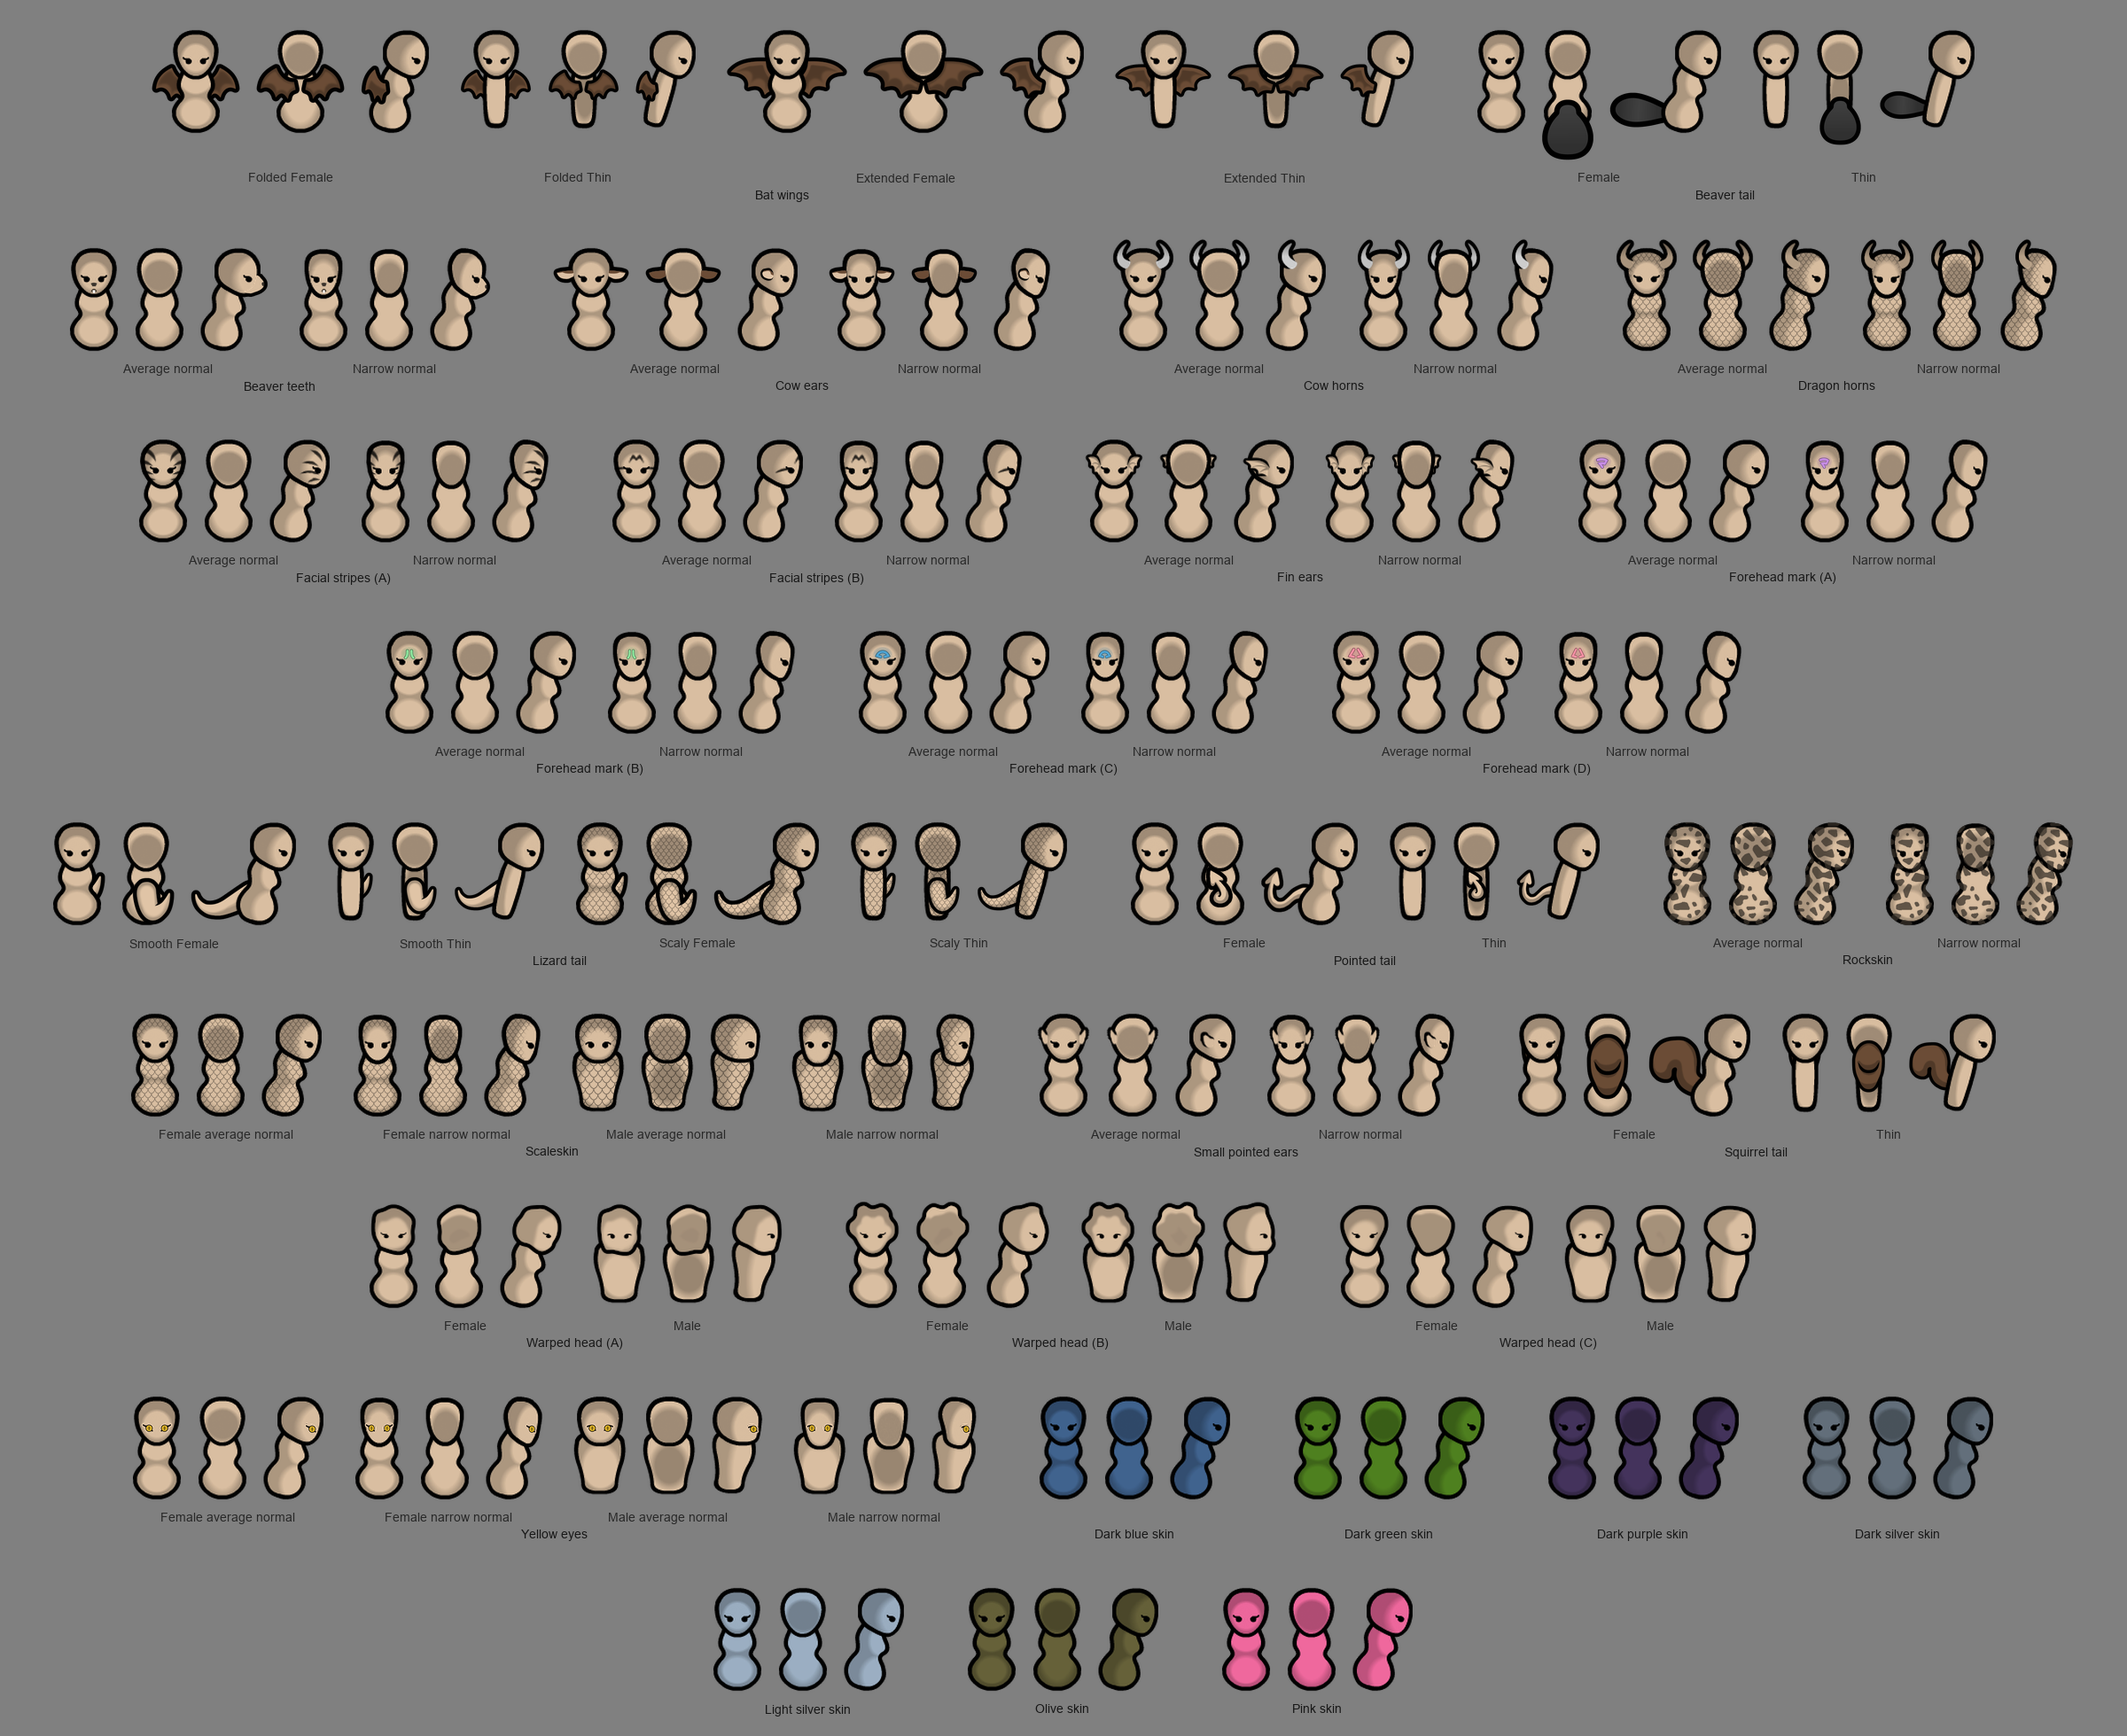
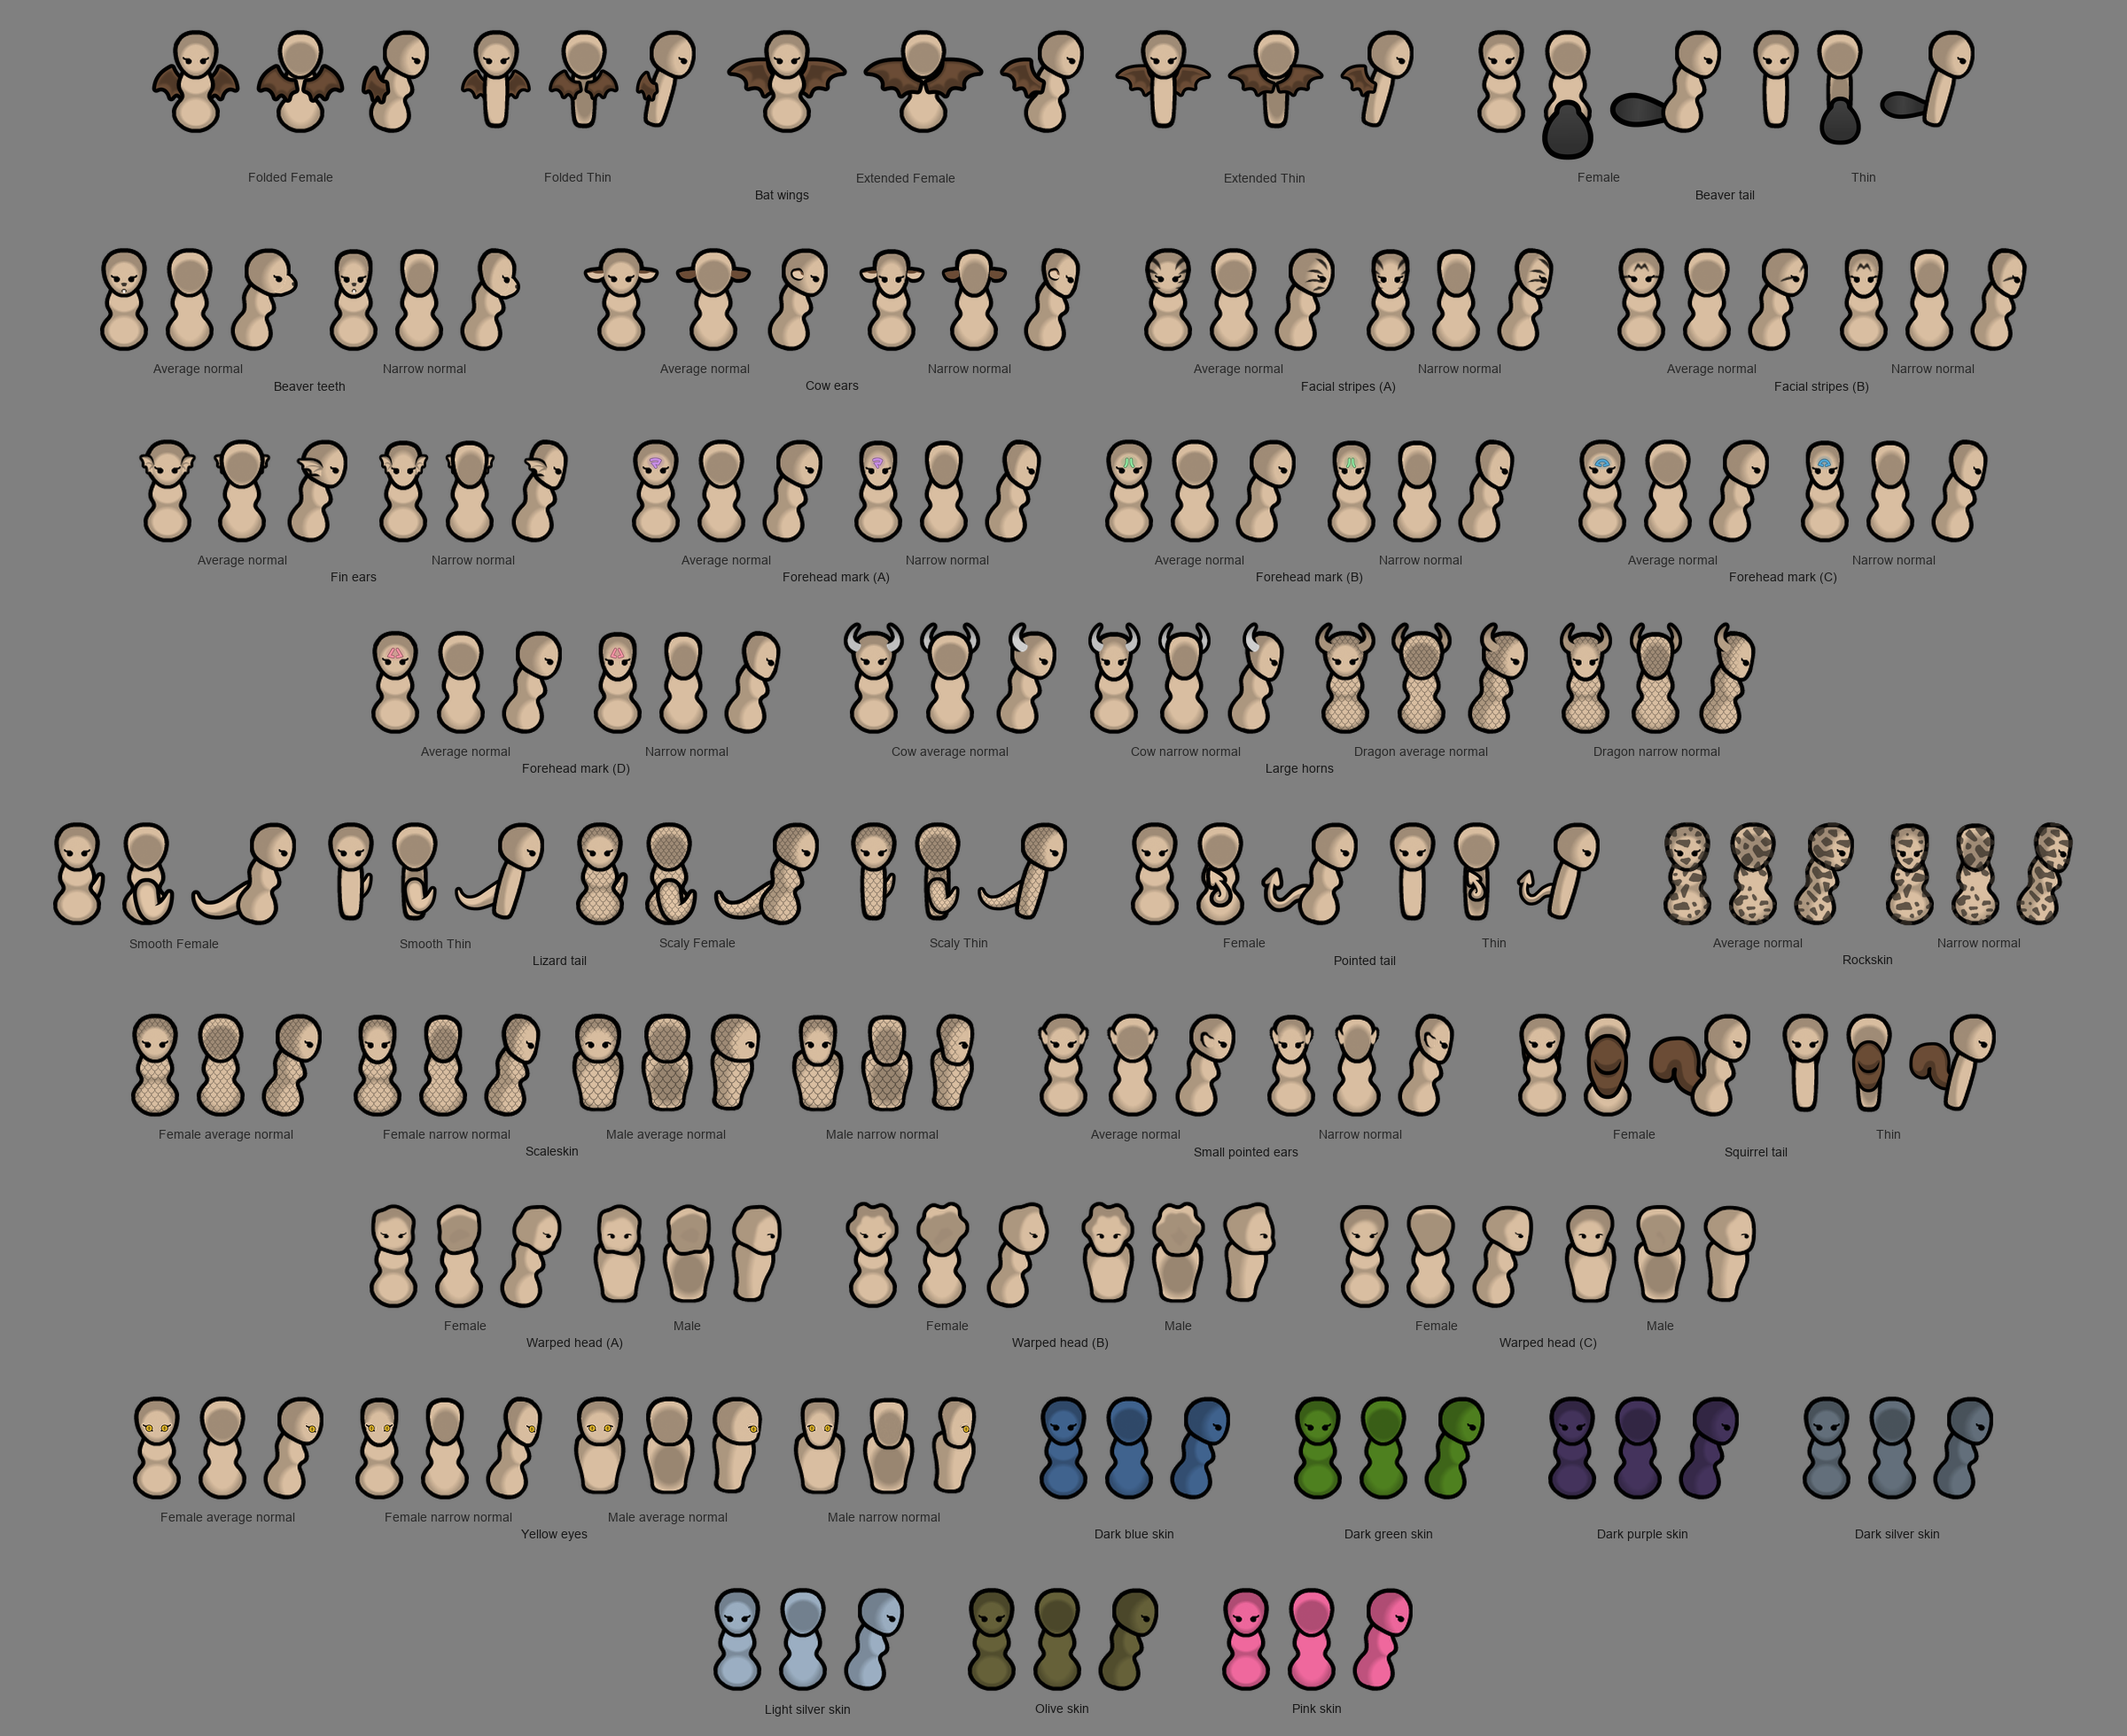
Group large horns
Codex-Assisted: true

diff --git a/Art/Codex/pawn_cosmetics/catalog.py b/Art/Codex/pawn_cosmetics/catalog.py
@@ -4,7 +4,7 @@ from dataclasses import replace
 from itertools import product
 
 from .model import Gender, Graphic, Group, Part, Pawn, Preview
-from .settings import BODY_ATTACHMENT_TYPES, DEFAULT_PALETTE, HEAD_SHAPES, NODE_LABELS, variant_caption
+from .settings import BODY_ATTACHMENT_TYPES, DEFAULT_PALETTE, GROUPED_VARIANTS, HEAD_SHAPES, variant_caption
 
 
 class CatalogBuilder:
@@ -28,19 +28,19 @@ class CatalogBuilder:
 
     @staticmethod
     def variant_caption(graphics):
-        return ", ".join(variant_caption(graphic.node.debug_label if graphic.node.conditional
-                                        else graphic.texture(Gender.FEMALE).name)
-                         for graphic in graphics
-                         if graphic.node.conditional or len(graphic.node.textures.female) > 1)
+        captions = []
+        for graphic in graphics:
+            node = graphic.node
+            override = GROUPED_VARIANTS.get(node.key[0], {}).get(node.debug_label)
+            if override is not None:
+                captions.append(override)
+            elif node.conditional or len(node.textures.female) > 1:
+                name = node.debug_label if node.conditional else graphic.texture(Gender.FEMALE).name
+                captions.append(variant_caption(name))
+        return ", ".join(captions)
 
     @staticmethod
     def variant_label(gene, graphics):
-        overrides = [NODE_LABELS[(gene.name, graphic.node.debug_label)] for graphic in graphics
-                     if (gene.name, graphic.node.debug_label) in NODE_LABELS]
-        if overrides:
-            if len(set(overrides)) != 1:
-                raise ValueError(f"Conflicting display labels for {gene.name}")
-            return overrides[0]
         caption = CatalogBuilder.variant_caption(graphics)
         return f"{gene.label} ({caption})" if caption else gene.label
 
@@ -71,10 +71,10 @@ class CatalogBuilder:
     def body_variant(graphics):
         return bool(graphics) and all(graphic.node.body_attachment for graphic in graphics)
 
-    def _previews(self, gene, graphics, *, body_caption=""):
+    def _previews(self, gene, graphics, *, prefix=""):
         complete = self._complete_graphics(gene, graphics)
         if self.body_variant(graphics):
-            return tuple(Preview(f"{body_caption} {body}".strip(), self.pawn(body=body), complete)
+            return tuple(Preview(f"{prefix} {body}".strip(), self.pawn(body=body), complete)
                          for body in BODY_ATTACHMENT_TYPES)
         affects_head = any(graphic.node.parent == Part.HEAD for graphic in graphics)
         sexed = any(graphic.node.textures.sexed for graphic in graphics)
@@ -88,6 +88,8 @@ class CatalogBuilder:
                     label = f"{gender.value} {caption.lower()}" if sexed else caption
                 else:
                     label = gender.value if sexed else gene.label
+                if prefix:
+                    label = f"{prefix} {label.lower()}"
                 previews.append(Preview(label, self.pawn(gender, shape), complete))
         return tuple(previews)
 
@@ -96,9 +98,9 @@ class CatalogBuilder:
         for gene in self.library.genes.values():
             variants = self.variants(gene)
             paired_body = len(variants) == 2 and all(self.body_variant(graphics) for graphics in variants)
-            if paired_body:
+            if paired_body or gene.name in GROUPED_VARIANTS:
                 previews = tuple(preview for graphics in variants
-                                 for preview in self._previews(gene, graphics, body_caption=self.variant_caption(graphics)))
+                                 for preview in self._previews(gene, graphics, prefix=self.variant_caption(graphics)))
                 groups.append(Group(gene.name, gene.label, previews))
             else:
                 for graphics in variants:

diff --git a/Art/Codex/test_pawn_cosmetics.py b/Art/Codex/test_pawn_cosmetics.py
@@ -18,16 +18,17 @@ from pawn_cosmetics.settings import RenderStyle, SheetStyle
 class CatalogTests(unittest.TestCase):
     def test_horns_share_art_but_keep_names_colors_and_dependencies(self):
         groups = CatalogBuilder(DefinitionLibrary(game_data=None)).build()
-        cow = next(group for group in groups if group.label == "Cow horns")
-        dragon = next(group for group in groups if group.label == "Dragon horns")
-        cow_graphics, dragon_graphics = cow.previews[0].graphics, dragon.previews[0].graphics
+        horns = [group for group in groups if group.gene == "XylLargeHorns"]
+        self.assertEqual(len(horns), 1)
+        self.assertEqual(horns[0].label, "Large horns")
+        self.assertEqual([preview.label for preview in horns[0].previews],
+                         ["Cow average normal", "Cow narrow normal", "Dragon average normal", "Dragon narrow normal"])
+        cow_graphics, dragon_graphics = horns[0].previews[0].graphics, horns[0].previews[2].graphics
         self.assertEqual(cow_graphics[0].texture(Gender.FEMALE), dragon_graphics[0].texture(Gender.FEMALE))
         self.assertEqual(cow_graphics[0].node.tint, (1, 1, 1, 1))
         self.assertEqual(dragon_graphics[0].node.tint, ColorSource.SKIN)
         self.assertEqual(len(cow_graphics), 1)
         self.assertEqual({graphic.node.key[0] for graphic in dragon_graphics[1:]}, {"XylScaleskin"})
-        self.assertEqual(len(cow.previews), 2)
-        self.assertEqual(len(dragon.previews), 2)
 
     def test_scaly_tail_keeps_body_comparisons_with_head_and_body_overlays(self):
         groups = CatalogBuilder(DefinitionLibrary(game_data=None)).build()
@@ -162,13 +163,13 @@ class LayoutTests(unittest.TestCase):
 
     def test_sheet_honors_width_background_and_reports_oversize_groups(self):
         groups = CatalogBuilder(DefinitionLibrary(game_data=None)).build()
-        cow = next(group for group in groups if group.label == "Cow horns")
+        horns = next(group for group in groups if group.label == "Large horns")
         composer = SheetComposer(Renderer(), SheetStyle(background=(110, 120, 130)))
-        sheet = composer.compose((cow,), 1000)
-        self.assertEqual(sheet.width, 1000)
+        sheet = composer.compose((horns,), 1600)
+        self.assertEqual(sheet.width, 1600)
         self.assertEqual(sheet.getpixel((0, 0)), (110, 120, 130))
-        with self.assertRaisesRegex(ValueError, "Cow horns"):
-            composer.compose((cow,), 50)
+        with self.assertRaisesRegex(ValueError, "Large horns"):
+            composer.compose((horns,), 50)
 
 
 if __name__ == "__main__":

diff --git a/Art/Codex/pawn_cosmetics/settings.py b/Art/Codex/pawn_cosmetics/settings.py
@@ -14,10 +14,9 @@ BODY_ATTACHMENT_TYPES = ("Female", "Thin")
 DEFAULT_WIDTH = 2400
 DEFAULT_PALETTE = Palette(skin=(0.88, 0.77, 0.65, 1.0), hair=(0.42, 0.30, 0.21, 1.0))
 
-# Overrides identify the XML node, so shared textures can still have distinct names.
-NODE_LABELS = {
-    ("XylLargeHorns", "LargeHorns"): "Cow horns",
-    ("XylLargeHorns", "LargeHorns_Scaleskin"): "Dragon horns",
+# Keep these variants in one gene group, with captions keyed by XML debug label.
+GROUPED_VARIANTS = {
+    "XylLargeHorns": {"LargeHorns": "Cow", "LargeHorns_Scaleskin": "Dragon"},
 }
 VARIANT_CAPTIONS = {"BatWings": "Folded", "BatWingsExtended": "Extended",
                     "ReptileTail": "Smooth", "ReptileTail_Scaleskin": "Scaly"}

diff --git a/Art/Codex/pawn_cosmetics/README.md b/Art/Codex/pawn_cosmetics/README.md
@@ -26,9 +26,10 @@ and geometry defaults make the script usable without it.
 | Typed definitions and selected preview data | `model.py` |
 | Command arguments and output | `../compose-pawn-cosmetics.py` |
 
-New XML cosmetics normally require no script edits. A label override is keyed
-by gene name and render-node debug label, so two nodes sharing a texture can
-have different names (cow/dragon horns). Coverage validation rejects omitted
+New XML cosmetics normally require no script edits. `GROUPED_VARIANTS` keeps
+selected variants under one gene caption and names their subitems by render-node
+debug label, so shared textures can have distinct names (cow/dragon horns).
+Coverage validation rejects omitted
 humanlike attachment/head art before saving.
 
 Definitions are parsed once. The catalog first selects the primary cosmetic's
